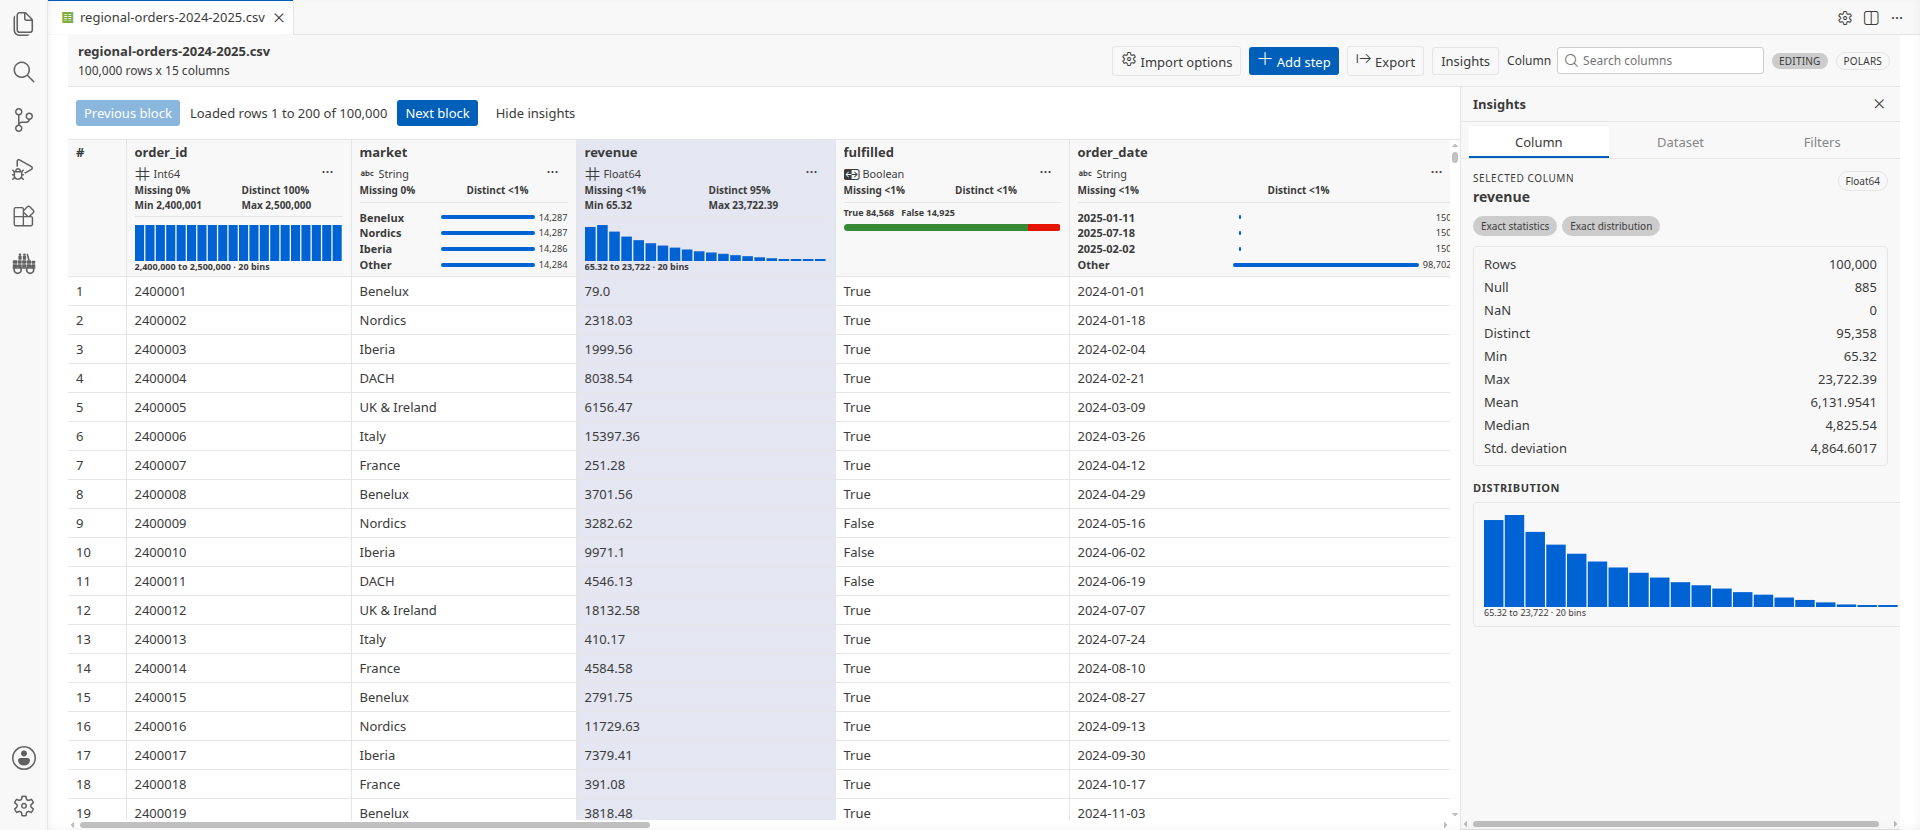
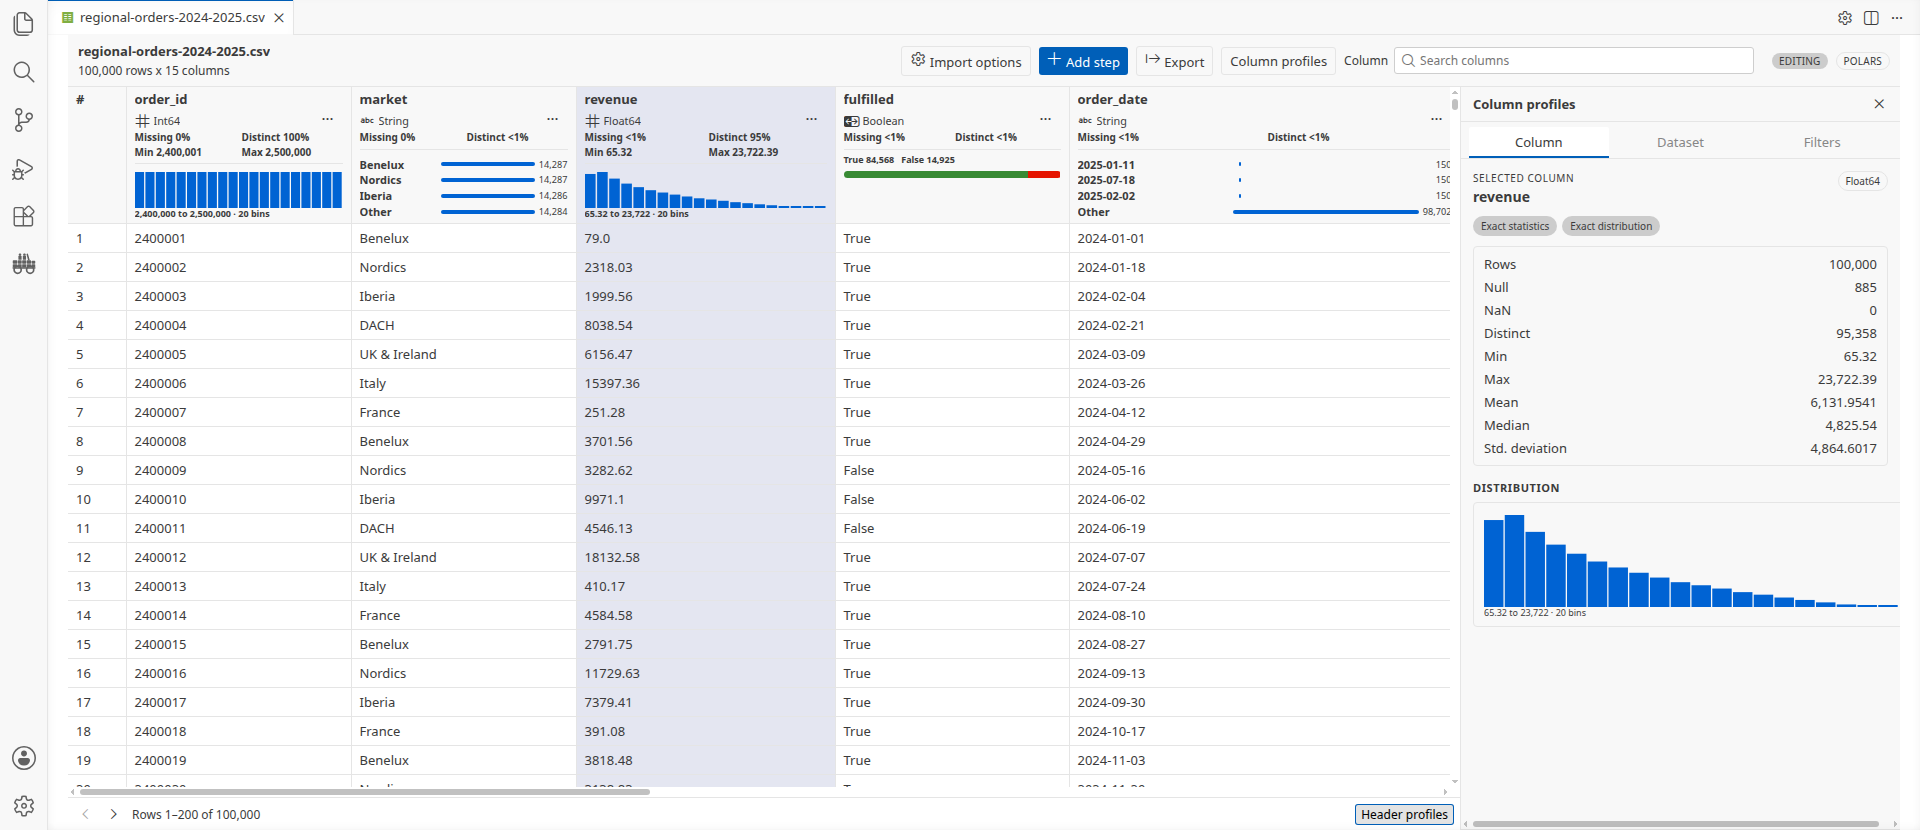
fix(webview): keep terminal grid status in bounds

diff --git a/src/test/webview.component.test.tsx b/src/test/webview.component.test.tsx
@@ -171,6 +171,46 @@ describe("DataGrid", () => {
     expect(onPage).toHaveBeenCalledWith(200);
   });
 
+  it("keeps an exact terminal range and both status-bar actions available for very large datasets", () => {
+    const totalRows = 100_000_000;
+    const offset = totalRows - largeGridPageSize;
+    const onPage = vi.fn();
+    render(
+      <DataGrid
+        metadata={{
+          ...metadata,
+          shape: { rows: totalRows, columns: 2 },
+          filteredShape: { rows: totalRows, columns: 2 }
+        }}
+        page={pageAt(offset, totalRows)}
+        summaries={[]}
+        pageSize={largeGridPageSize}
+        defaultColumnWidth={190}
+        insightsOnOpen={true}
+        viewState={{ columnWidths: {}, viewport: { firstVisibleRow: offset, scrollLeft: 0 } }}
+        onPage={onPage}
+        onSortColumn={() => undefined}
+        onOpenFilter={() => undefined}
+        onVisibleSummaryColumnsChange={() => undefined}
+      />
+    );
+
+    const statusBar = document.querySelector<HTMLElement>(".gridStatusBar");
+    if (!statusBar) throw new Error("Expected the grid status bar.");
+    expect(within(statusBar).getByRole("status", { name: "Visible rows" })).toHaveTextContent(
+      "Rows 99,999,801\u2013100,000,000 of 100,000,000"
+    );
+    const previous = within(statusBar).getByRole("button", { name: "Previous block" });
+    const next = within(statusBar).getByRole("button", { name: "Next block" });
+    expect(previous).toBeEnabled();
+    expect(next).toBeDisabled();
+    expect(within(statusBar).getByRole("button", { name: "Header profiles" })).toHaveAttribute("aria-pressed", "true");
+    fireEvent.click(previous);
+    expect(onPage).toHaveBeenCalledWith(99_999_600);
+    next.click();
+    expect(onPage).toHaveBeenCalledTimes(1);
+  });
+
   it("keeps the column name on its own row above compact metadata and actions", () => {
     render(
       <DataGrid

diff --git a/src/test/extensionHost/index.ts b/src/test/extensionHost/index.ts
@@ -1836,7 +1836,12 @@ async function exerciseReleasedJupyterExtension(
       assert.ok(duckdbDiagnostic, "The native DuckDB session must remain coordinated before kernel restart.");
       const recoveryDuckdbRevenue = columnReference(recoveryDuckdbPage.metadata, "revenue");
       const recoveryDuckdbViewState: GridViewState = {
-        columnWidths: { [recoveryDuckdbRevenue.id]: 310 },
+        columnWidths: Object.fromEntries(
+          recoveryDuckdbPage.metadata.schema.map((column) => [
+            column.id,
+            column.id === recoveryDuckdbRevenue.id ? 310 : 640
+          ])
+        ),
         selectedColumnId: recoveryDuckdbRevenue.id,
         viewport: { firstVisibleRow: 123, scrollLeft: 120 }
       };

diff --git a/src/webviews/styles.css b/src/webviews/styles.css
@@ -769,6 +769,7 @@ textarea {
 }
 
 .dataGrid {
+  container-type: inline-size;
   height: 100%;
   display: flex;
   flex-direction: column;
@@ -2030,6 +2031,27 @@ dd {
 
   .operationRowActions {
     justify-content: flex-end;
+  }
+}
+
+@container (max-width: 480px) {
+  .gridStatusBar {
+    display: grid;
+    grid-template-columns: auto auto minmax(0, 1fr);
+  }
+
+  .visibleRowsStatus {
+    grid-column: 1 / -1;
+    grid-row: 2;
+    min-width: 0;
+    overflow-wrap: anywhere;
+    white-space: normal;
+  }
+
+  .headerProfilesButton {
+    justify-self: end;
+    grid-column: 3;
+    grid-row: 1;
   }
 }
 

diff --git a/docs/testing.md b/docs/testing.md
@@ -188,6 +188,11 @@ is the sole authoritative editable generated-code surface.
 
 The browser acceptance records keyboard cell navigation and resizing, Page Up/Down behavior across a live viewport resize under a throttled renderer, scroll-driven roving focus, far-column focus restoration, bounded row/column DOM counts, responsive drawer layout, advanced predicate interaction, the complete operation catalog, draft/diff presentation, applied-step input/output inspection, by-example input/warning states, editable CodeMirror code preview, and apply/discard/edit/undo shortcuts. Filter lifecycle components additionally require an always-visible multi-column active-filter overview, ambiguity-safe value summaries, independent predicate/value removal, structural cleanup after the final condition, no-op **Filter rows** suppression, and sort preservation; the native Filters tree removes a whole column through the same host/webview action boundary. Its applied-step fixture is generated from real runtime `apply_draft` and `inspect_step` responses rather than hand-authored inspection data. It verifies accessible added-column/cell semantics, disabled inspection-time view controls, and that Escape leaves inspection without fetching or changing the confirmed view. A dedicated operation-dialog baseline supplies equal labels, a stringified non-string label, and an empty label; it must show positional duplicate disambiguation and a readable `(empty name)` option. The summary-family fixture is produced by a real Pandas runtime frame with duplicate numeric/categorical labels plus boolean and datetime columns. Its 800px and 200%-zoom baselines require exact numeric min/max, a full-width exact numeric histogram, focusable interval/count bins, visible non-color chart meaning, human positional duplicate disambiguation, and schema-stable ordering. Its text fixture uses `[null, "", "A", "é", "e\u0301", "😀"]` and requires null count 1, empty count 1, minimum length 0, maximum length 2, and mean length 1; the same vector runs through Pandas, eager and lazy Polars, DuckDB, PySpark, saved snapshots, protocol validation, and the visible selected-column panel. A separate explicitly sampled protocol fixture keeps the sampled label scoped to its distribution. Axe interaction opens the nonmodal **Column profiles** drawer, requires focus on its Close control, traverses Column, Dataset, and Filters with roving Arrow, Home, and End keys, scans every view, closes with Escape, and verifies exact focus return to the originating toggle. The grid-status checks require transparent Previous/Next Codicon buttons with native disabled states, an exact `Rows 1\u2013200 of 1,000` or `No rows` polite atomic **Visible rows** status (where the escape renders as a U+2013 en dash), a non-sticky direct position below the table scroller, a constant pressed **Header profiles** control, no clipping at 320px or 200% zoom, and explicit forced-colors borders, focus, disabled, and pressed-state treatment. Component regressions restore a stable-ID width and selection together with vertical and horizontal position, publish presentation updates without runtime page mutations, keep a new draft's before-state anchored to the immediately previous committed schema after a structural reorder, retain the recorded input schema for a replacement draft, disable toolbar/host add and edit-latest entry points while a draft is active, open the generic picker for a no-argument host Add Cleaning Step action, and prove the drawer owns only the selected stable column. Selection transfers that ownership, Dataset and Filters requests cancel when their view is left, and grid owners still release on hide, horizontal virtualization, and unmount only after the final owner releases. Duplicate-label regressions deliver profiles out of order and require grid headers, retained host state, native Summary state, and the drawer to remain associated and ordered by stable column ID. Failed/cancelled pages and mutations must restore metadata, summaries, values, filter, code, focus, confirmed logical context, and still-visible profiling work. Dedicated baselines cover applied-step diffs, long/Unicode values, empty data, loading, malformed-file errors, and runtime recovery. Playwright injects axe into every generated editor, notebook, and Code Preview harness and fails on every non-minor WCAG violation. It uses the lockfile-pinned headless shell with private HOME/XDG roots plus a disposable workspace-local browser profile and temp root, reports each harness before scanning it, and bounds browser launch, navigation, selectors, and each axe run so a renderer failure or exhausted shared system temp area cannot hang CI indefinitely. On POSIX, the private browser temp directory is exposed through a mode-0700, short-lived `/tmp/ow-a11y-*` symlink so Chrome's process-singleton socket remains below the Unix path limit; nested cleanup removes both the alias and workspace root. `CHROME_BIN` remains an explicit diagnostic override rather than an automatic system-browser fallback.
 
+A 100,000,000-row terminal fixture additionally retains the exact
+`Rows 99,999,801\u2013100,000,000 of 100,000,000` status on one visual line at 320 and 400 CSS pixels, including
+effective 400-pixel width at 200% zoom. Its second status row must preserve **Header profiles** and both block
+controls with zero status-bar, application, or document overflow.
+
 Released notebook-action discovery resolves a unique manifest command ID before it validates the exact **Open in Open Wrangler** accessible name. Diagnostics record bounded label evidence and separate native editor-title action state from notebook-toolbar state, so a host-specific title mismatch is reported as such instead of as a missing Jupyter contribution.
 
 ## First-class editor release checklist

diff --git a/docs/feature-parity.md b/docs/feature-parity.md
@@ -681,7 +681,10 @@ Grid status and profile vocabulary, 2026-07-31:
   its Spark-query cost tooltip.
 - React, production-bundle screenshot, axe, forced-colors, narrow-width, 200%-zoom, packaged-layout, and PySpark
   media assertions cover direct status-bar placement, exact range text, Codicon presence, pressed state, and
-  unclipped controls. Historical Insights evidence above remains evidence for the behavior tested at that time.
+  unclipped controls. Dedicated 100,000,000-row terminal fixtures prove the exact
+  `Rows 99,999,801\u2013100,000,000 of 100,000,000` range at 320 CSS pixels and 200% zoom without status-bar,
+  application, or document overflow. Historical Insights evidence above remains evidence for the behavior tested
+  at that time.
 
 This completes the bounded permanent grid-status sub-slice of [issue #88](https://github.com/Matt17BR/openwrangler/issues/88). Broader command-row redesign and refreshed installed-editor release evidence remain follow-up work; this does not make a parity-complete claim.
 

diff --git a/CHANGELOG.md b/CHANGELOG.md
@@ -10,7 +10,8 @@ All notable changes to Open Wrangler are documented here. The project follows Se
 
 - Moved row-block navigation below the scrolling table into a slim, non-sticky status bar with transparent
   Previous/Next Codicon buttons and one exact, always-visible row-range announcement. Narrow, 200%-zoom, high
-  contrast, and forced-colors layouts keep the status and native disabled states legible.
+  contrast, and forced-colors layouts keep the status and native disabled states legible; very large terminal
+  ranges move below the actions in a calm second row instead of overflowing the grid.
 - Renamed the selected-column drawer to **Column profiles** while preserving its filter tabs, focus, Escape, and
   stable internal relationships. The separate grid-header control is now the constant pressed **Header profiles**
   toggle; `openWrangler.insightsOnOpen` keeps its existing key and behavior.
